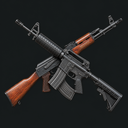
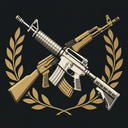
Restyle Arena thumbnail with ivory, ochre and a laurel wreath
Simplify the crossed AK and M4 while retaining their recognizable forms. Add a restrained arena emblem and preserve the previous realistic image set and generation history.

diff --git a/THIRD-PARTY-NOTICES.md b/THIRD-PARTY-NOTICES.md
@@ -122,11 +122,13 @@ See the [artwork notice](ArenaMode.Client/Assets/Ui/NOTICE.md),
 [full MIT text](ArenaMode.Client/Assets/Ui/MIT-LICENSE.txt) and
 [generation records](tools/ArenaUiArtwork/renders/PROMPTS.json).
 
-The project thumbnail is a generated photorealistic illustration of crossed AK
-and M4 rifles made with OpenAI's image tool, using the project's earlier
-thumbnail and generated assault-rifle artwork as references. It is not a
-photograph or an extracted game asset. The [generation record](docs/THUMBNAIL-20261018.json)
-contains the prompt and source/export hashes. It is offered under the project
+The project thumbnail is a generated, simplified illustration of crossed AK
+and M4 rifles framed by a laurel wreath in graphite, ivory and ochre. It was
+made with OpenAI's image tool by reworking the project's previous realistic
+thumbnail, which used the earlier thumbnail and generated assault-rifle artwork
+as references. It is not a photograph or an extracted game asset.
+The [generation record](docs/THUMBNAIL-20261018.json) contains the prompts,
+revision history and source/export hashes. It is offered under the project
 MIT license to the extent copyright or related rights apply to the contributors' work.
 
 The remaining original HUD graphics (excluding the two credited equipment
